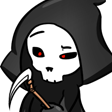
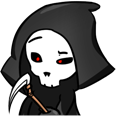
Adjusted footer spacing. Adjusted paragraph spacing on index. Updated articles and corrections. Added cartoons. Why not?

diff --git a/index.html b/index.html
@@ -38,8 +38,8 @@
         <div id="lbox">
             <h3>Saving Temperance</h3>
             <hr>
-            <p><br><br><br><br>
-                I was involved with this band back in 2011 and recorded one of my favorite albums that I have been involved with. I was invited to join the group after knowing most of the members either from high school or previous bands. With the help of local businesses I was able to fundrase $2000 to fly everyone out to Nashville TN, where we competed for a TV spot in a battle of the bands. Although we did get 4th place in the competition, we had producers follow us back home to Ca to try and get us to sign on with them. I learned so much about the music business, and business in general thanks to my talented band mates and their families. I have been involved with several projects since then, but I always have a spot in my heart for all of the members that were involved with the project!
+            <p><br><br><br>
+                I was involved with this band back in 2011 and recorded one of my favorite albums that I have been involved with. I was invited to join the group after knowing most of the members either from high school or previous bands. With the help of local businesses I was able to fundrase $2000 to fly everyone out to Nashville TN, where we competed for a TV spot in a battle of the bands. Although we did get the TV spot, we had producers follow us back home to Ca to try and get us to sign on with them. I learned so much about the music business, and business in general thanks to my talented band mates and their families. We ultimately agreed that trying to remain an independent group was much more ideal for the long run. Eventually I parted ways with the band and the lead singer moved to another state. I have been involved with several projects since then, but I always have a spot in my heart for all the bandmates and friends involved.
             </p>
         </div>
 
@@ -117,14 +117,18 @@
                 </div>
             </div>
         <div id="clear"></div>
-        </div>
+        <h3>About My Work</h3>
+        <hr>    
+        <p>I have always loved being open minded to new projects and ideas with art. I have gone from web development and magazine design, to Twitch emotes and band flyers. <br><br>I have also spent some time since I was young playing around with 3d game design and modding. I loved the game Red Faction on the PC and joined an online community that was also into development. <br>The Airship photo was one of my first projects after re-uniting with my community and the Silent Hill remodels were a part of a project of reconstructing another classic game into Red Faction. I was always a fan Silent Hill and built up a 1:1 model of that is fully interactive and playable as an online FPS. <br><br>I now am spending a lot of time in Photoshop and Blender, trying to figure out how to simplify my workflow and allow my creativity to go somewhere new. </p>
+        <div id="axolotl"></div>
+    </div>
 <!-- Footer -->
         <hr id="footerline">
         <footer>
             <ul>
                 <li><a href=""><i class="fas fa-caret-up"></i> Back To Top</a></li>
                 <li id="tag">
-                    <a href="https://www.facebook.com/matthew.nygren.75" target="_blank"><i class="fab fa-facebook"> </i></a>
+                    <a href="https://www.facebook.com/matthew.nygren.75" target="_blank"><i class="fab fa-facebook"> </i></a>&nbsp;&nbsp;&nbsp;&nbsp;
                     <a href="https://open.spotify.com/artist/04p1ZsNM5hug4WYU9TxB6k?si=N1HvLUrwRtWA3lUW5SvO-w" target="_blank"><i class="fab fa-spotify"> </i></a>
                 </li>
             </ul>

diff --git a/css/style.css b/css/style.css
@@ -235,6 +235,28 @@ nav ul li a:active {
     background-image: url(/img/birb112.png)
 }
 
+#reaper {
+    display:block;
+    height: 116px;
+    width: 116px;
+    float: right;
+    position: relative;
+    top: 101px;
+    left: -40px;
+    background-image: url(/img/reaper112.png)
+}
+
+#axolotl {
+    display:block;
+    height: 112px;
+    width: 112px;
+    float: right;
+    position: relative;
+    top: -14px;
+    left: 14px;
+    background-image: url(/img/axolotl112.png)
+}
+
 
         /* ---------  Font Styling  --------- */
 
@@ -269,6 +291,32 @@ h3 {
     font-family: 'Bebas Neue', sans-serif;
     color: #2b2b2b;
     display: block;
+    height:60px;
+    padding-left: 30px;
+}
+
+h3 a{
+    margin-left: 60px;
+    margin-top: 60px;
+    margin-bottom:60px;
+    font-size: 60px;
+    font-family: 'Bebas Neue', sans-serif;
+    color: #d00000;
+    display: block;
+    text-decoration: none;
+    height:60px;
+    padding-left: 30px;
+}
+
+h3 a:hover{
+    margin-left: 60px;
+    margin-top: 60px;
+    margin-bottom:60px;
+    font-size: 60px;
+    font-family: 'Bebas Neue', sans-serif;
+    color: #ff4d4d;
+    display: block;
+    text-decoration: none;
     height:60px;
     padding-left: 30px;
 }
@@ -376,6 +424,7 @@ input[type=text], select, textarea {
     height: 70px;
     width: 1300px;
     font-size: 24px;
+    margin-bottom:20px;
   }
   
   input[type=submit]:hover {

diff --git a/contact.html b/contact.html
@@ -31,6 +31,8 @@
 <!-- Content -->
         
         <div id="contactBox">
+            <div id="reaper"></div>
+            <h3><a href = "mailto: mgnygren@gmail.com">mgnygren@gmail.com</a></h3>
             <form action="">
                 <label for="fname">Name</label>
                 <input type="text" id="fname" name="firstname" placeholder="Your Name" autofocus >
@@ -50,7 +52,7 @@
             <ul>
                 <li><a href=""><i class="fas fa-caret-up"></i> Back To Top</a></li>
                 <li id="tag">
-                    <a href="https://www.facebook.com/matthew.nygren.75" target="_blank"><i class="fab fa-facebook"> </i></a>
+                    <a href="https://www.facebook.com/matthew.nygren.75" target="_blank"><i class="fab fa-facebook"> </i></a>&nbsp;&nbsp;&nbsp;&nbsp;
                     <a href="https://open.spotify.com/artist/04p1ZsNM5hug4WYU9TxB6k?si=N1HvLUrwRtWA3lUW5SvO-w" target="_blank"><i class="fab fa-spotify"> </i></a>
                 </li>
             </ul>

diff --git a/about.html b/about.html
@@ -35,7 +35,6 @@
 
             <h2>Matthew Nygren</h2>
                 <div id="birb"></div>
-                <div id="reaper"></div>
             <ul id="leftlist">
                 <li>Musician | Digital Artist | 3d Designer | Texture Artist | Teacher</li>
                 <br><br><br>
@@ -75,7 +74,7 @@
             <ul>
                 <li><a href=""><i class="fas fa-caret-up"></i> Back To Top</a></li>
                 <li id="tag">
-                    <a href="https://www.facebook.com/matthew.nygren.75" target="_blank"><i class="fab fa-facebook"> </i></a>
+                    <a href="https://www.facebook.com/matthew.nygren.75" target="_blank"><i class="fab fa-facebook"> </i></a>&nbsp;&nbsp;&nbsp;&nbsp;
                     <a href="https://open.spotify.com/artist/04p1ZsNM5hug4WYU9TxB6k?si=N1HvLUrwRtWA3lUW5SvO-w" target="_blank"><i class="fab fa-spotify"> </i></a>
                 </li>
             </ul>
